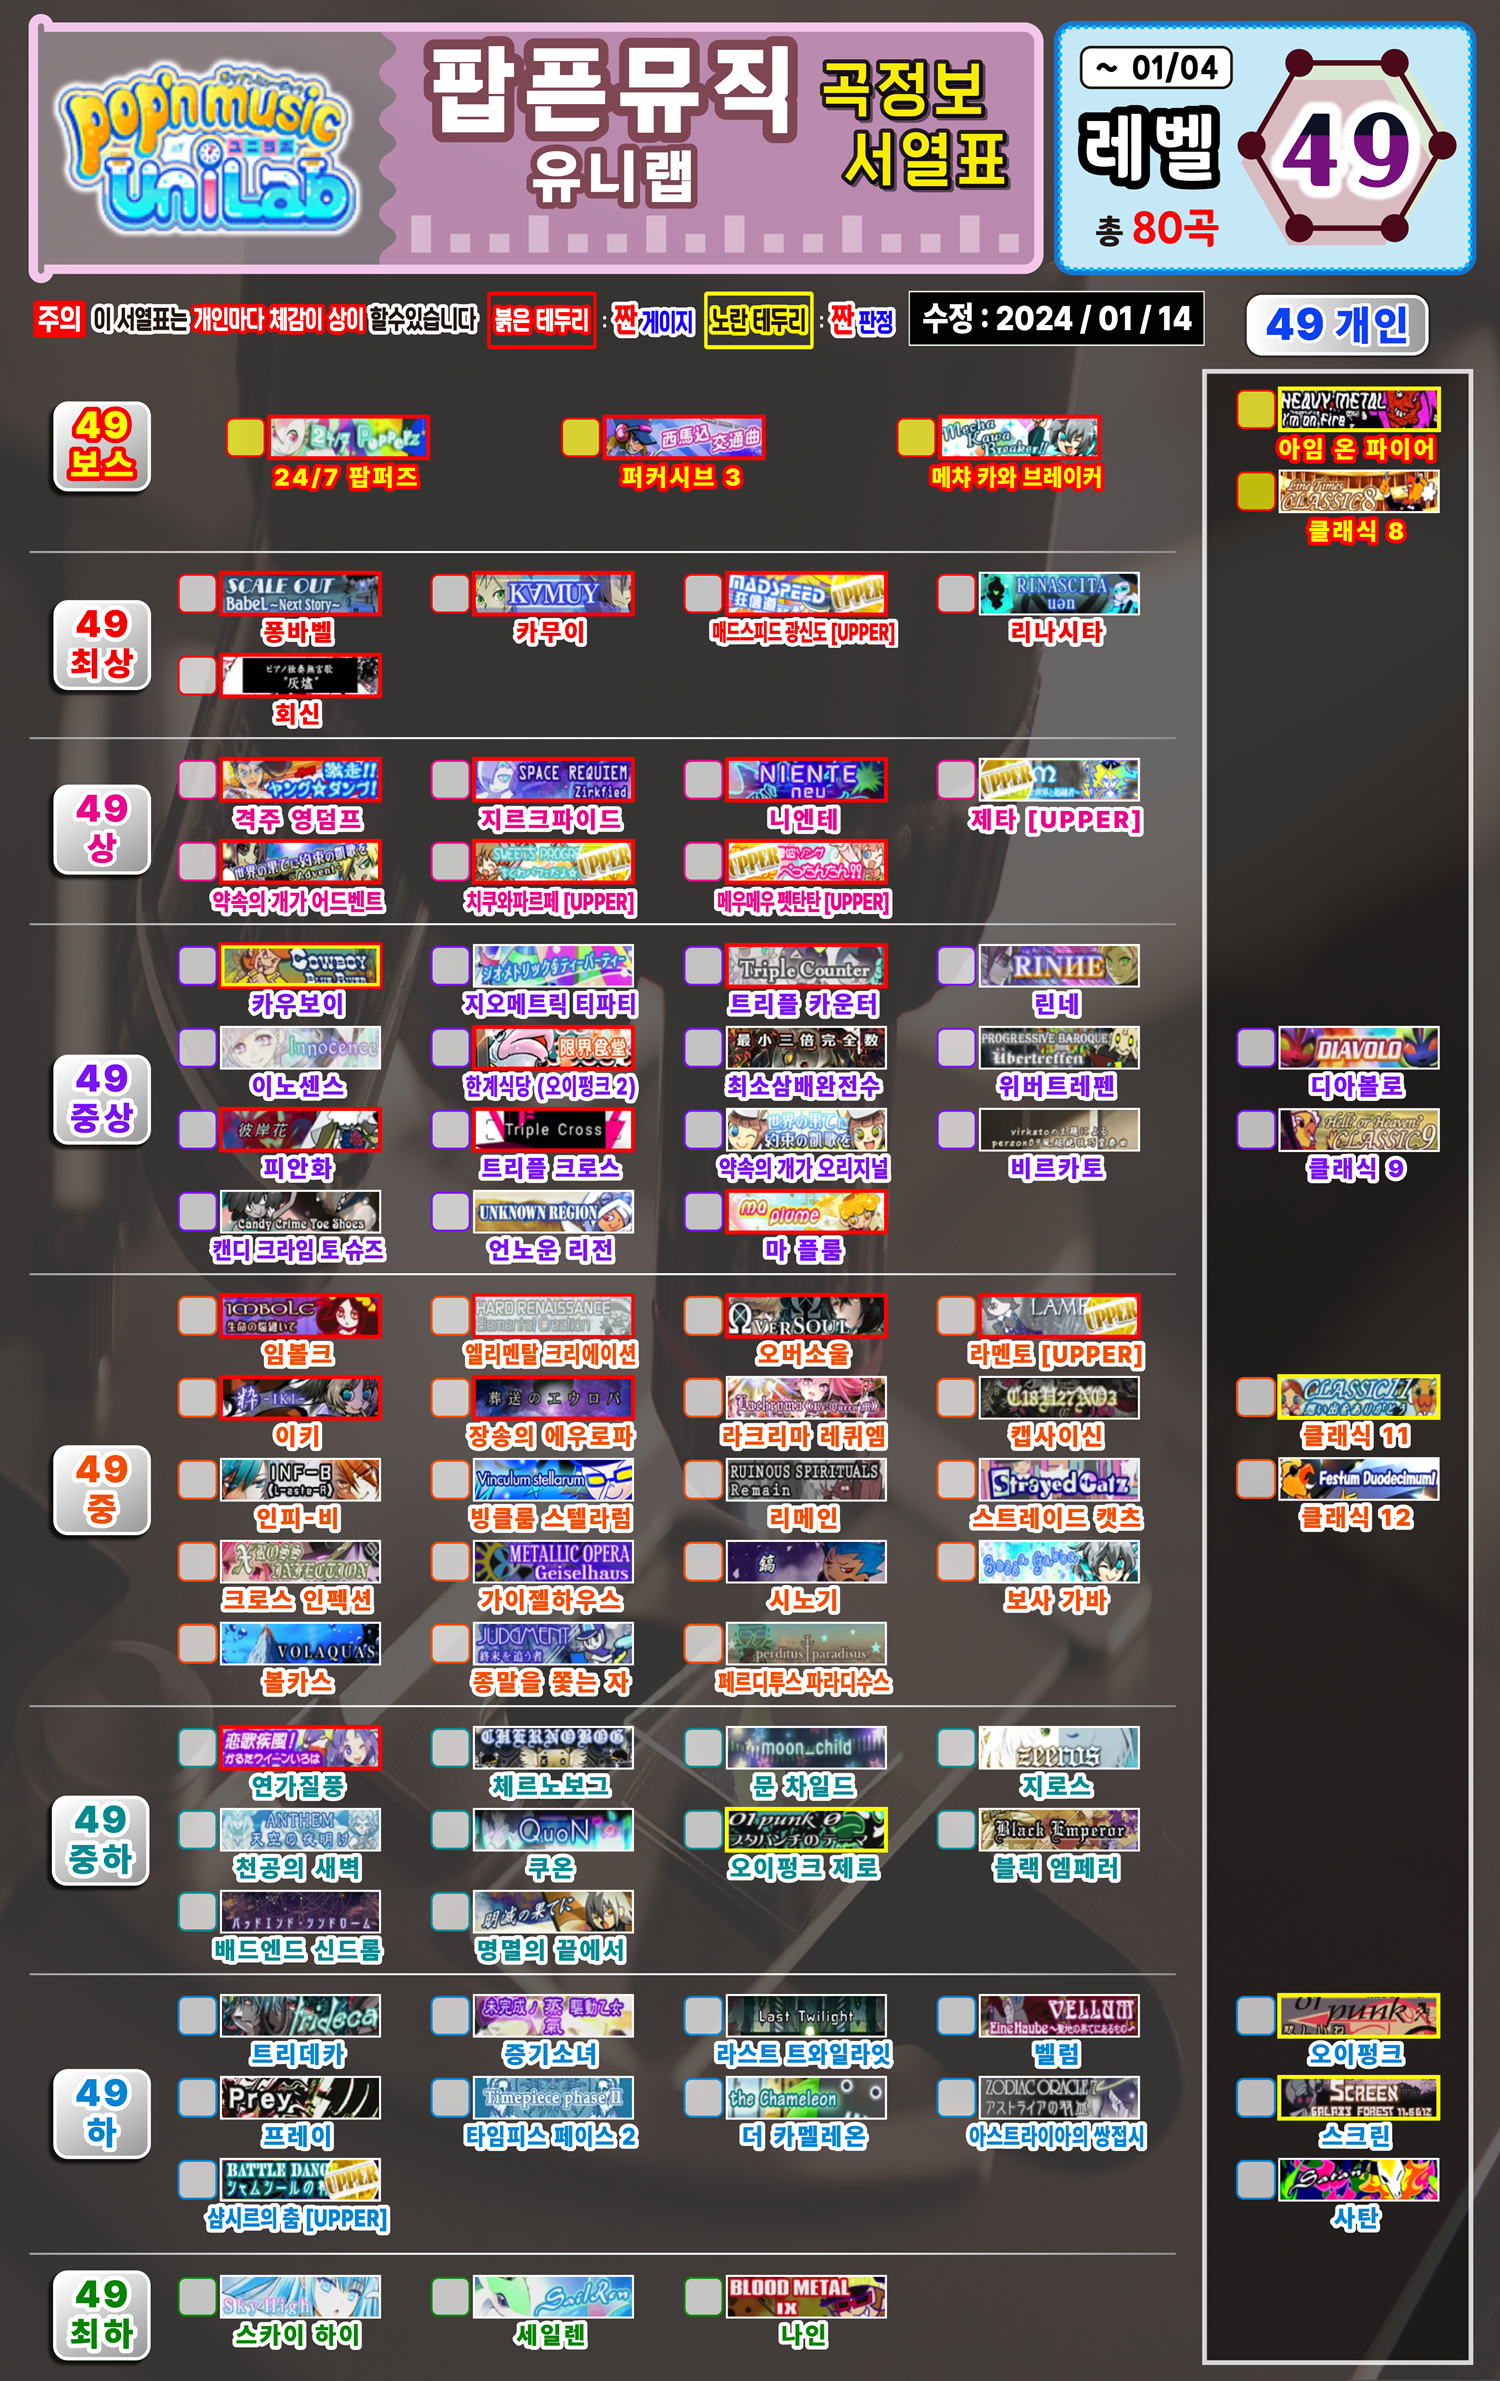
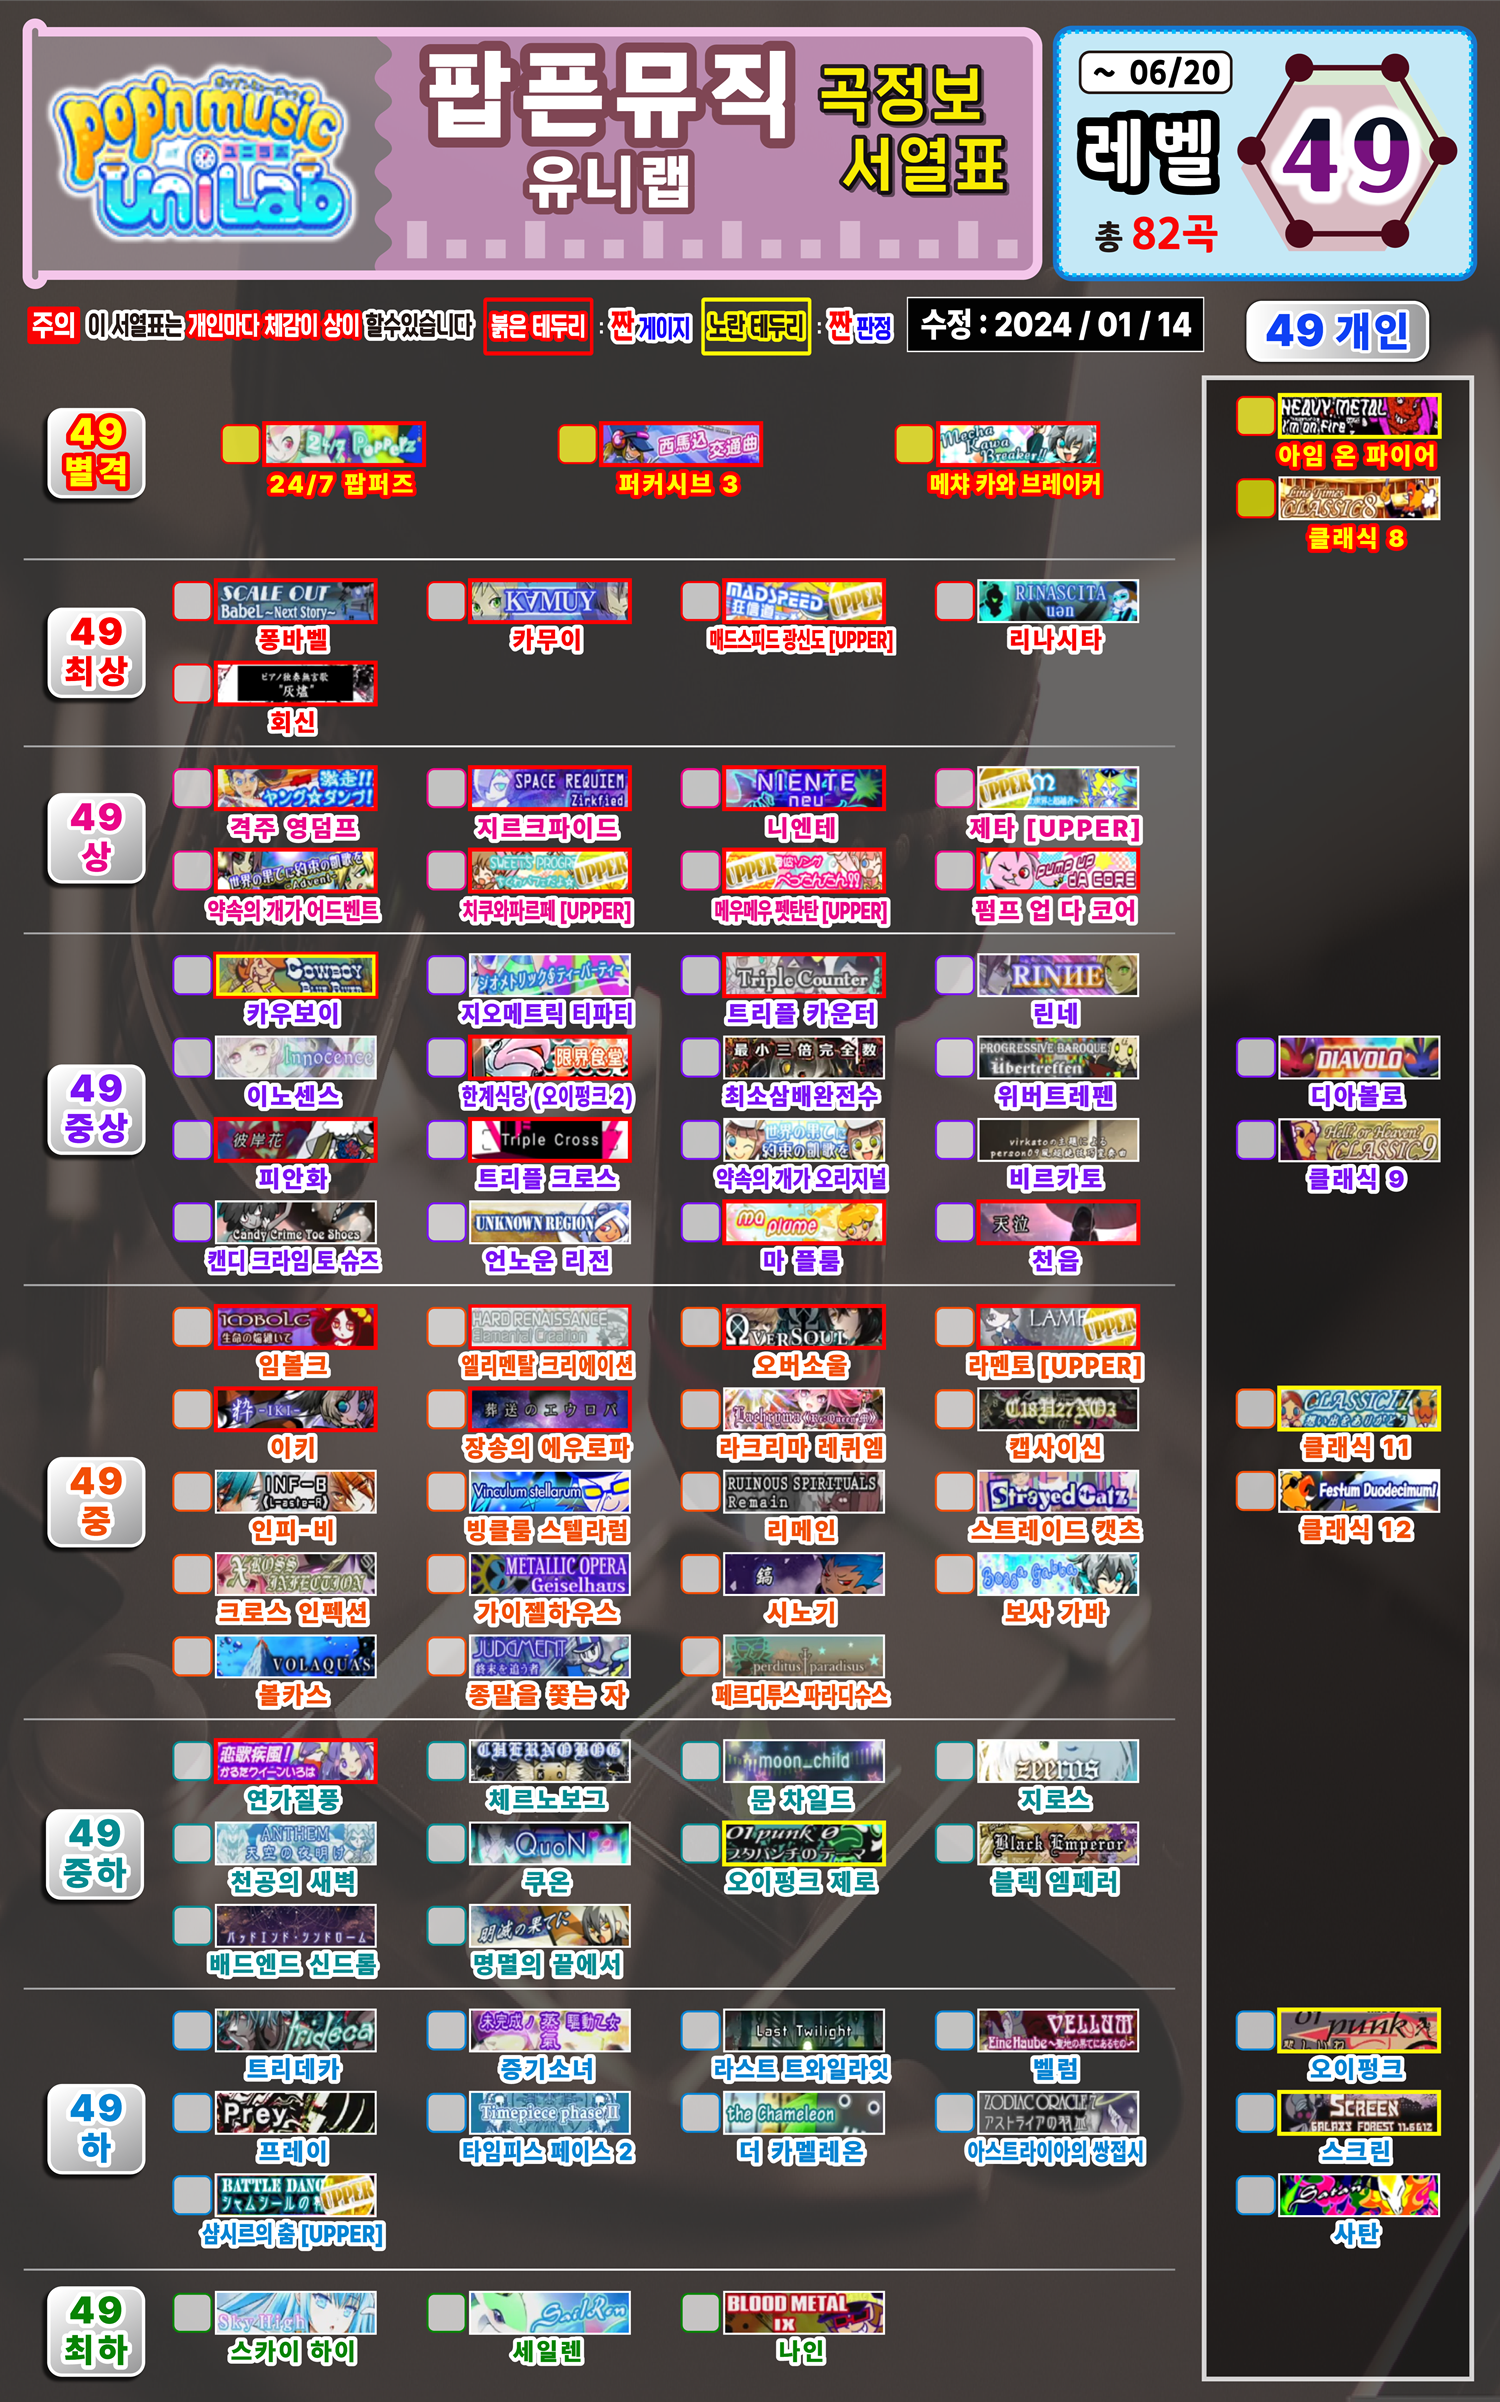
49 갱신

diff --git a/49.js b/49.js
@@ -138,7 +138,9 @@ IX,684,2278
 未完成ノ蒸氣驅動乙女,430,1996
 明滅の果てに,430,1891
 粋 -IKI-,178,1380
-彼岸花,178,1111`
+彼岸花,178,1111
+pump up dA CORE,937,842
+天泣,937,1193`
   let newCsv = csv49.trim();
   const m = new Map();
   newCsv.split('\n').map(line => {
